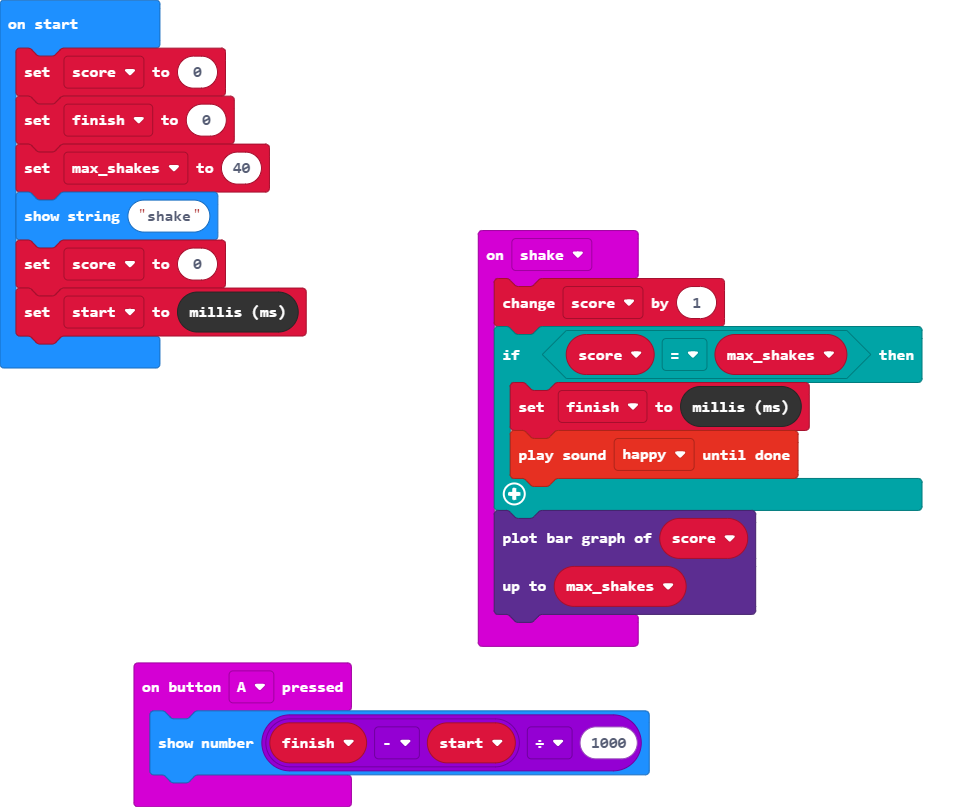
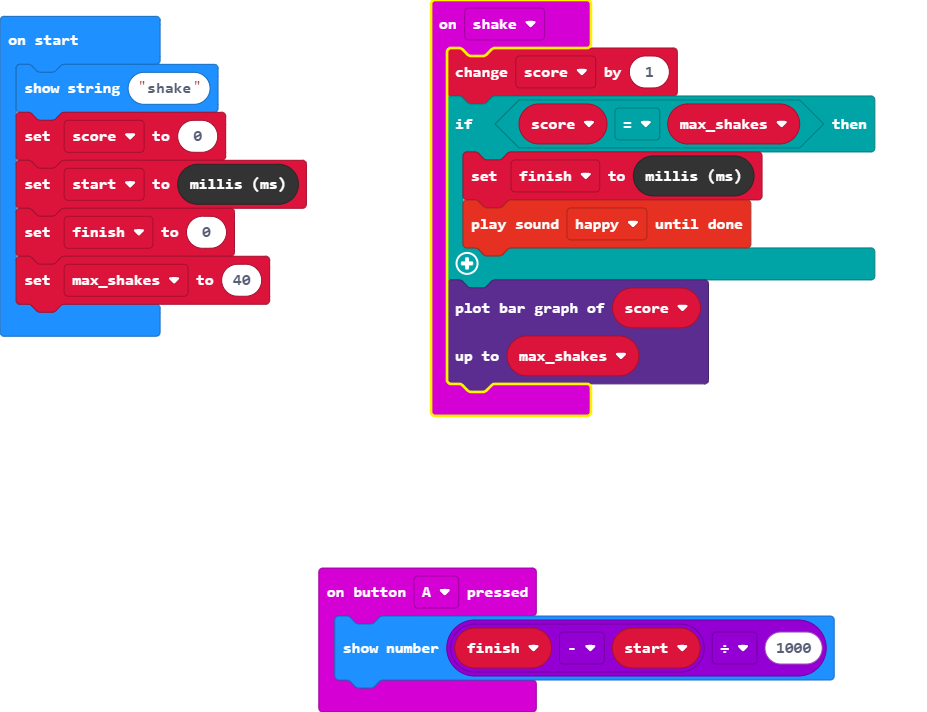
Cleaned up code

diff --git a/main.ts b/main.ts
@@ -12,13 +12,12 @@ input.onGesture(Gesture.Shake, function () {
     max_shakes
     )
 })
-let start = 0
 let max_shakes = 0
 let finish = 0
+let start = 0
 let score = 0
-score = 0
-finish = 0
-max_shakes = 40
 basic.showString("shake")
 score = 0
 start = control.millis()
+finish = 0
+max_shakes = 40
